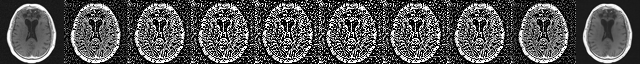
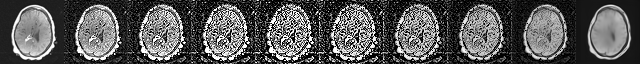
re-run experiments with new classifier

diff --git a/run_experiments.py b/run_experiments.py
@@ -180,7 +180,8 @@ def compare_L(config, imgs, gt_imgs, s=50):
 def compare_s(config, imgs, gt_imgs, L=400):
 
     config['L'] = L
-    Ss = [10, 50, 100, 200, 400]
+    # Ss = [10, 50, 100, 200, 400]
+    Ss = [0.3, 1, 3, 9, 27]
 
     res = {}
     for s in Ss:
@@ -413,13 +414,14 @@ if __name__ == '__main__':
         gt_img = gt_img.resize(config["target_size"], Image.BICUBIC)  # Resize
         gt_img = np.array(gt_img)
         gt_imgs.append(gt_img)
-
+    
+    os.makedirs('experiments', exist_ok=True)
 
     ### run experiments ###
-    # evaluate_ddim(config, imgs[0])
-    compare_diseases(config, imgs, gt_imgs)
-    # compare_s(config, imgs, gt_imgs, L=400)
-    # compare_L(config, imgs, gt_imgs, s=50)
-    # visualize_flow(config, imgs[1])
+    # evaluate_ddim(config, L=1000)
+    # compare_s(config, imgs, gt_imgs, L=300)
+    # compare_L(config, imgs, gt_imgs, s=3)
+    # compare_diseases(config, imgs, gt_imgs)
+    visualize_flow(config, imgs[2], L=200, s=3)
     # compare_train_dataset(config, imgs, gt_imgs)
     # compare_time(config, imgs)

diff --git a/README.md b/README.md
@@ -33,19 +33,17 @@ To train the DDIM with Classifier GUidance we need to train the DDIM and the Cla
 First, we train the classifier to distinguish healthy from pathological scans.
 We feed noisy images to the classifier during training since we are going to use the classifier gradients on the noisy reconstruction in the denoising process of the DDIM to shift the reconstruction towards heathy images.
 We also trained the classifier on the Decathlon dataset because \
-The training is done in the [train_classifier.ipynb](./train_classifier.ipynb).
+The training is done in [train_classifier.ipynb](./train_classifier.ipynb).
 
 ### Train DDIM
 
-
+We train the diffusion model as a DDPM by estimating the noise added to the image at each step of the diffusion process. Adding the noise follows the diffusion process described in the paper. The training is done in [main.ipynb](./main.ipynb).
 
 ### Training Curves
 
 | DDIM | Classifier | Classifier (On Decathlon Dataset) |
 | --- | --- | --- |
-|![image](./logs/my_logs_ddim/metrics.png)|![image](./logs/my_logs_classifier/metrics.png)|![image](./logs/my_logs_classifier_dec/metrics.png)|
-
-
+|![image](./logs/my_logs_ddim/metrics.png)|![image](./logs/my_logs_classifier/loss.png)|![image](./logs/my_logs_classifier_dec/metrics.png)|
 
 ## Evaluation
 
@@ -75,8 +73,10 @@ Noising Process | Denoising Process | Gradients during DP | Full Reconstruction
 
 ## Conclusion
 
-Looking at Anomaly maps we can clearly see that the model is not able to find and remove the anomalies in the images. This is due to the fact that the classifier is not able to learn the distribution of the healthy images. This is probably due to the fact that the classifier is trained on a relatively small dataset and the Decathlon dataset which is also reflected in the training curves of the classifier.
+Looking at Anomaly maps, we can see that the model is not able to find and remove the anomalies in the images. This is due to the fact that the classifier is not able to learn to distinguish the healthy from the pathological images. This is probably due to the fact that the classifier is trained on a relatively small dataset which is also reflected in the training curves of the classifier. However, the classifier performs better on the Decathlon dataset even though it is even smaller (388 training samples vs 1200 in our data). This could be because the differences between the classes are more pronounced in the Decathlon dataset but further investigation is needed to confirm this.
 
-Looking at the image reconstruction of the DDIM without the classifier guidance we can see that the model is able to generate images that look like the input images. Due to the fact that the gradients of the classifier during denoising do not vanish as the image looks more like a healthy image, the classifier keeps adding noise to the image which results in a noisy reconstruction.
+Looking at the image reconstruction of the DDIM without the classifier guidance, we can see that the model is able to generate images that look like the input images. Due to the fact that the gradients of the classifier during denoising do not vanish as the image looks more like a healthy image, the classifier keeps adding noise to the image which results in a noisy reconstruction.
 
 The best way to improve the model would be to use a more performant classifier that for example was trained on a larger dataset or with the use of data augmentation.
+Another idea is to remove the classifier guidance from the last few steps of the denoising process to avoid the noisy reconstruction.
+This assumes however that the anomalies cannot removed by the DDIM within these few steps. This might hold true for large anomalies but not for small ones.
